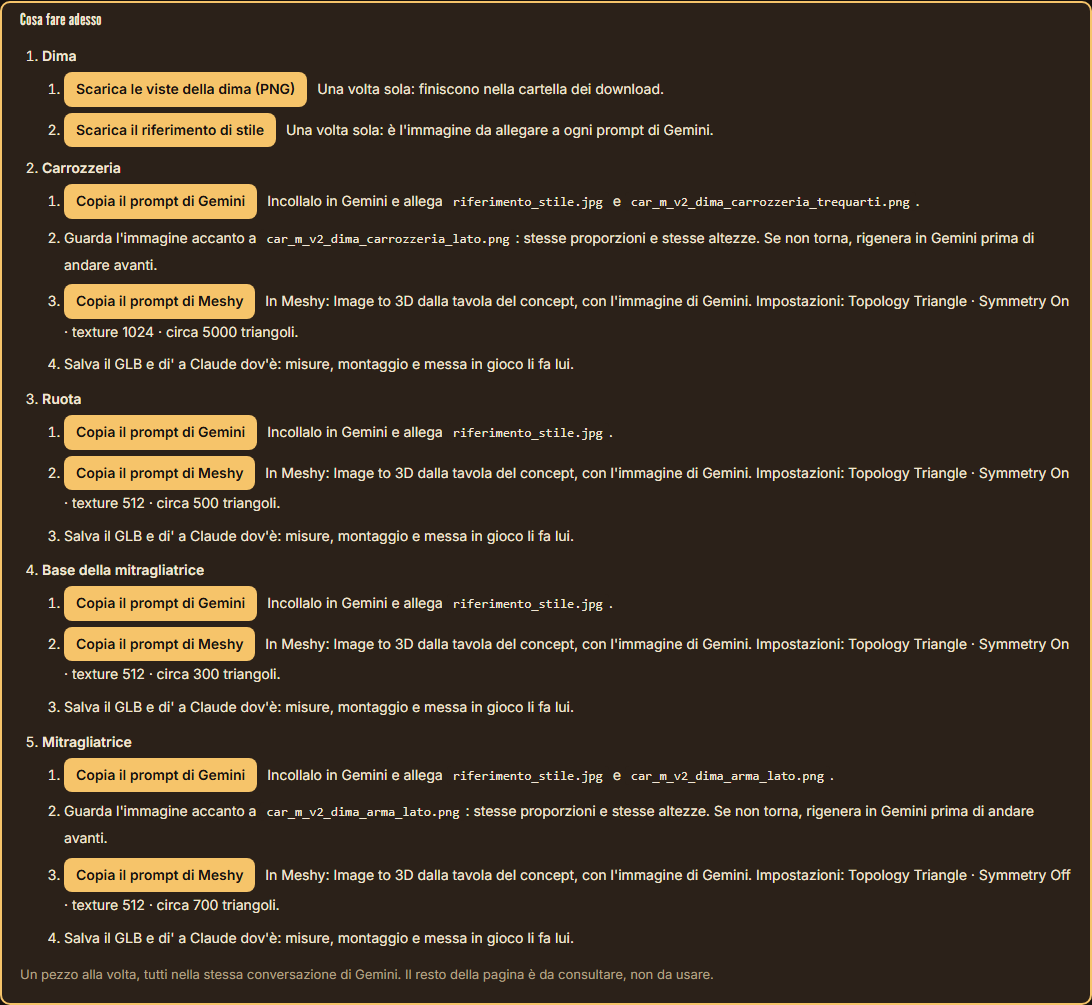
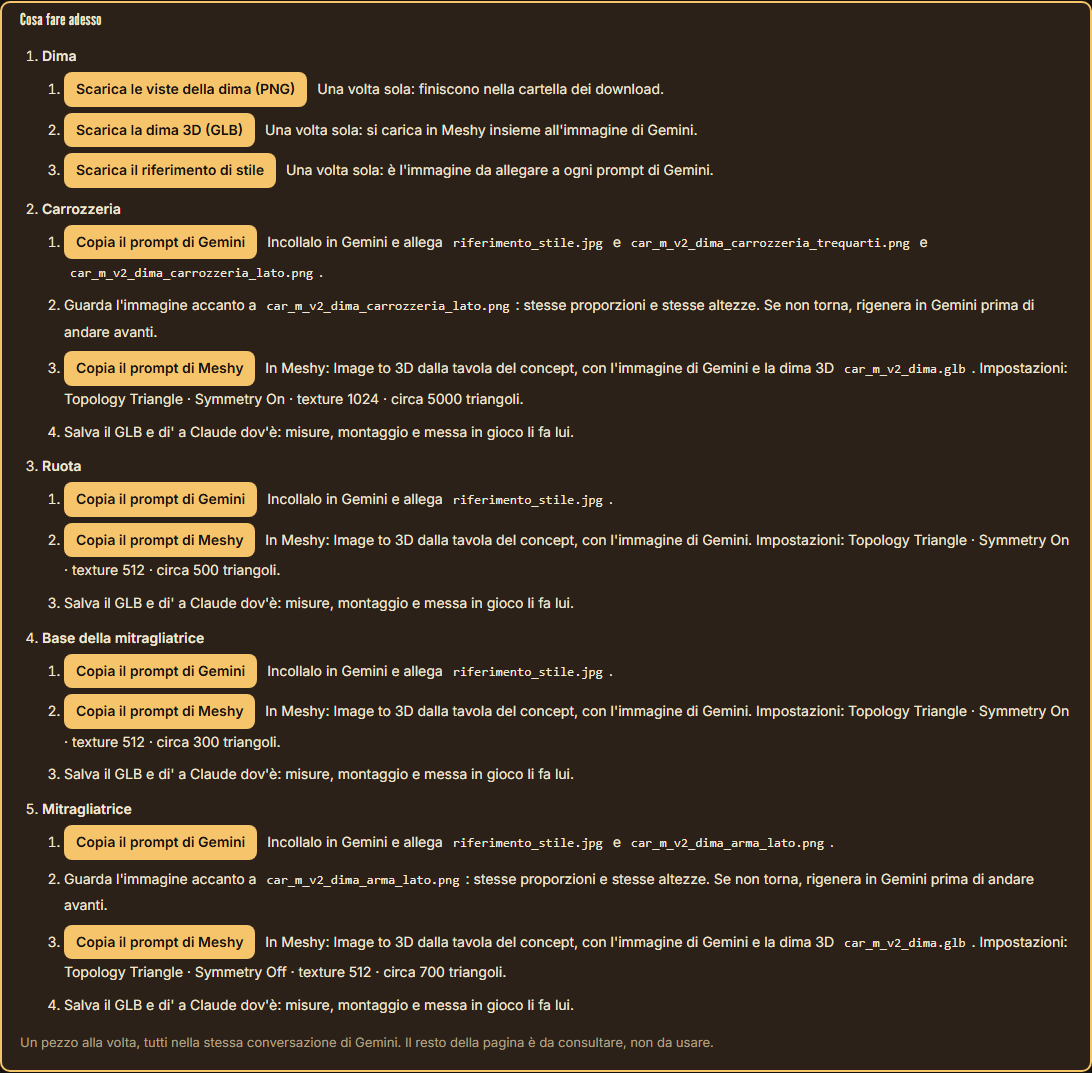
feat: dima 3D da caricare in Meshy e vista di lato allegata a Gemini
Il riquadro "Cosa fare adesso" rimette lo scaricamento della dima 3D (GLB) e dice di caricarla in Meshy per i pezzi che hanno la dima.
Le carrozzerie allegano a Gemini anche la vista di lato della dima, l'unica in cui le altezze si leggono: la seconda prova dell'Avenger aveva la pianta giusta e il baule alto 0,96 m invece del pianale a 0,45.

Design: design/art/modelli-strutturati.md §17, §20

Changed region(s): [[0.0, 0.0617, 1.0, 1.0], [0.0, 0.0, 0.0934, 0.0617]]

diff --git a/src/admin/produzione-view.ts b/src/admin/produzione-view.ts
@@ -80,7 +80,8 @@ function pieceHtml(p: Piece): string {
 
 /**
  * What the user does now, in order: the pictures of the template once, then for every piece not made yet
- * the Gemini prompt with what to attach, the look at the picture, the Meshy prompt with its settings.
+ * the Gemini prompt with what to attach, the look at the picture, the Meshy prompt with its settings and,
+ * for a piece with a template, the template's .glb.
  * Nothing for a sheet with no template or with every piece made.
  */
 const STYLE_FILES = import.meta.glob<string>('/assets/*/modelli/*.{jpg,png,webp}', { eager: true, query: '?url', import: 'default' });
@@ -101,11 +102,12 @@ function todoHtml(s: Sheet): string {
     return `<li><strong>${esc(p.nome)}</strong><ol>
       <li>${copy('Copia il prompt di Gemini', c!.gemini)} Incollalo in Gemini${c!.allegati.length ? ` e allega ${c!.allegati.map(attach).join(' e ')}` : ''}.</li>
       ${view ? `<li>Guarda l'immagine accanto a ${png(view)}: stesse proporzioni e stesse altezze. Se non torna, rigenera in Gemini prima di andare avanti.</li>` : ''}
-      <li>${copy('Copia il prompt di Meshy', c!.meshy)} In Meshy: ${esc(R.blocchi.meshy.modo)}, con l'immagine di Gemini. Impostazioni: ${settings(c!.impostazioni)}.</li>
+      <li>${copy('Copia il prompt di Meshy', c!.meshy)} In Meshy: ${esc(R.blocchi.meshy.modo)}, con l'immagine di Gemini${view ? ` e la dima 3D <code>${esc(`${s.id}_dima.glb`)}</code>` : ''}. Impostazioni: ${settings(c!.impostazioni)}.</li>
       <li>Salva il GLB e di' a Claude dov'è: misure, montaggio e messa in gioco li fa lui.</li></ol></li>`;
   }).join('');
   return `<section class="todo" data-dima="${esc(s.id)}"><h3>Cosa fare adesso</h3><ol>
-    <li><strong>Dima</strong><ol><li><button class="btn" data-dima-png>Scarica le viste della dima (PNG)</button> Una volta sola: finiscono nella cartella dei download.</li><li>${styleLink()} Una volta sola: è l'immagine da allegare a ogni prompt di Gemini.</li></ol></li>
+    <li><strong>Dima</strong><ol><li><button class="btn" data-dima-png>Scarica le viste della dima (PNG)</button> Una volta sola: finiscono nella cartella dei download.</li>
+      <li><button class="btn" data-dima-glb>Scarica la dima 3D (GLB)</button> Una volta sola: si carica in Meshy insieme all'immagine di Gemini.</li><li>${styleLink()} Una volta sola: è l'immagine da allegare a ogni prompt di Gemini.</li></ol></li>
     ${rows}</ol><p class="set">Un pezzo alla volta, tutti nella stessa conversazione di Gemini. Il resto della pagina è da consultare, non da usare.</p></section>`;
 }
 

diff --git a/tests/integration/admin.spec.ts b/tests/integration/admin.spec.ts
@@ -173,6 +173,8 @@ test.describe('admin inspector', () => {
     const todo = page.locator('.todo');
     await expect(todo.locator('h3')).toHaveText('Cosa fare adesso');
     await expect(todo.locator('[data-dima-png]')).toBeVisible();
+    await expect(todo.locator('[data-dima-glb]')).toBeVisible();
+    await expect(todo).toContainText('e la dima 3D car_m_v2_dima.glb');
     await expect(todo).toContainText('car_m_v2_dima_carrozzeria_trequarti.png');
     await expect(todo.getByRole('link', { name: 'Scarica il riferimento di stile' })).toHaveAttribute('download', 'riferimento_stile.jpg');
     await page.setViewportSize({ width: 1366, height: 1600 });
